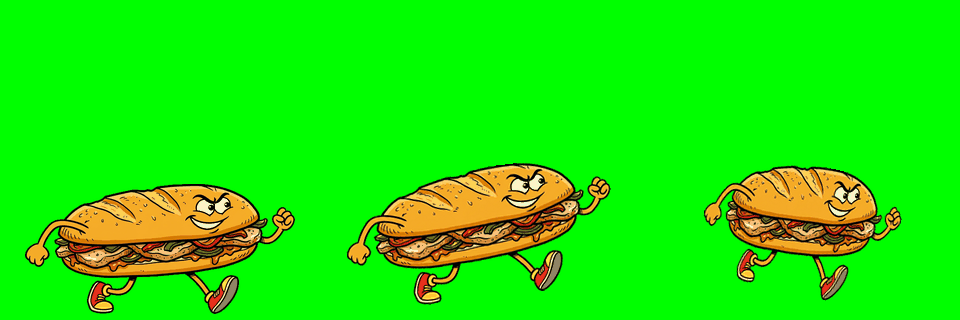
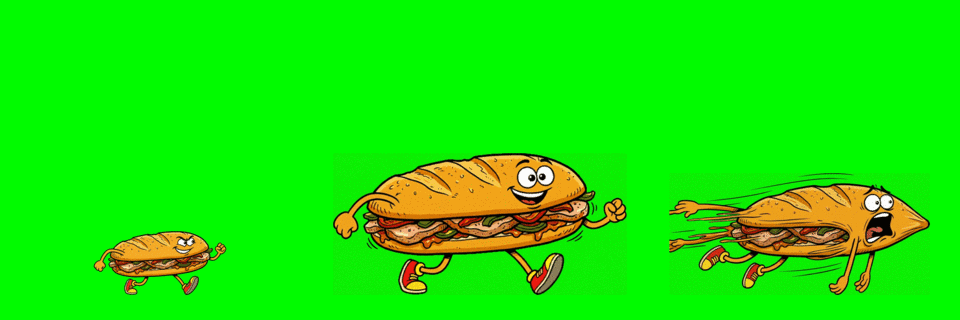
A3b · Poses originales de andar B y aspirado de los esmorzars 5-8

Changed region(s): [[0.3438, 0.4688, 0.6562, 0.9688], [0.6875, 0.5, 0.9688, 0.9375], [0.0, 0.5625, 0.3125, 1.0]]

diff --git a/src/sprite-list.js b/src/sprite-list.js
@@ -150,23 +150,23 @@ export const SPRITE_FILES = {
   'boss-lider-down': ['./assets/enemigos/boss-lider-down.png', 477, 260],
   'boss-lider-shout': ['./assets/enemigos/boss-lider-shout.png', 642, 350],
   'bocata-down': ['./assets/sprites/bocata-down.webp', 351, 120],
-  'bocata-stun': ['./assets/sprites/bocata-stun.webp', 305, 206],
-  'bocata-walkA': ['./assets/sprites/bocata-walkA.webp', 415, 200],
-  'bocata-walkB': ['./assets/sprites/bocata-walkB.webp', 406, 217],
+  'bocata-stun': ['./assets/sprites/bocata-stun.webp', 816, 350],
+  'bocata-walkA': ['./assets/sprites/bocata-walkA.webp', 412, 200],
+  'bocata-walkB': ['./assets/sprites/bocata-walkB.webp', 916, 444],
   'cacahuete-down': ['./assets/sprites/cacahuete-down.webp', 382, 120],
-  'cacahuete-stun': ['./assets/sprites/cacahuete-stun.webp', 138, 184],
-  'cacahuete-walkA': ['./assets/sprites/cacahuete-walkA.webp', 164, 200],
-  'cacahuete-walkB': ['./assets/sprites/cacahuete-walkB.webp', 161, 208],
+  'cacahuete-stun': ['./assets/sprites/cacahuete-stun.webp', 738, 408],
+  'cacahuete-walkA': ['./assets/sprites/cacahuete-walkA.webp', 163, 200],
+  'cacahuete-walkB': ['./assets/sprites/cacahuete-walkB.webp', 369, 442],
   'chupito-down': ['./assets/sprites/chupito-down.webp', 281, 120],
-  'chupito-stun': ['./assets/sprites/chupito-stun.webp', 141, 202],
-  'chupito-walkA': ['./assets/sprites/chupito-walkA.webp', 187, 200],
-  'chupito-walkB': ['./assets/sprites/chupito-walkB.webp', 180, 199],
+  'chupito-stun': ['./assets/sprites/chupito-stun.webp', 785, 368],
+  'chupito-walkA': ['./assets/sprites/chupito-walkA.webp', 188, 200],
+  'chupito-walkB': ['./assets/sprites/chupito-walkB.webp', 394, 444],
   'paella-down': ['./assets/sprites/paella-down.webp', 394, 160],
   'paella-idle': ['./assets/sprites/paella-idle.webp', 311, 300],
   'paella-walkA': ['./assets/sprites/paella-walkA.webp', 311, 300],
   'paella-walkB': ['./assets/sprites/paella-walkB.webp', 311, 300],
   'tostada-down': ['./assets/sprites/tostada-down.webp', 420, 120],
-  'tostada-stun': ['./assets/sprites/tostada-stun.webp', 148, 204],
-  'tostada-walkA': ['./assets/sprites/tostada-walkA.webp', 193, 200],
-  'tostada-walkB': ['./assets/sprites/tostada-walkB.webp', 186, 204],
+  'tostada-stun': ['./assets/sprites/tostada-stun.webp', 683, 421],
+  'tostada-walkA': ['./assets/sprites/tostada-walkA.webp', 192, 200],
+  'tostada-walkB': ['./assets/sprites/tostada-walkB.webp', 423, 436],
 };

diff --git a/assets/PROMPTS.md b/assets/PROMPTS.md
@@ -270,3 +270,16 @@ Personaje **inventado** según el comentario de #57: dueño de bar de mediana ed
 - assets/enemigos/jefe-bar-enfadado.png | Enfadado fase 2: cara roja, vapor por las orejas y una paella entera alzada sobre la cabeza a dos manos, cucharón en el bolsillo del delantal. | generate_image (referencia: reposo) + Pillow
 - assets/enemigos/jefe-bar-victoria.png | Victoria: ríe orgulloso con una mano en la cadera y el cucharón en alto como un trofeo. | generate_image (referencia: reposo) + Pillow
 - assets/enemigos/jefe-bar-retrato.png | Retrato para la pantalla del jefe: busto tres cuartos a la derecha, barbilla alta y cucharón al hombro. | generate_image (referencia: reposo) + Pillow
+## A3b · Poses originales de andar B y aspirado de los esmorzars 5-8 (2026-11-02)
+
+Antes el andar B y el aspirado de estos cuatro enemigos eran un aplastado/giro del andar A. Ahora son poses dibujadas de verdad, con el PNG de andar A de cada uno como **imagen de referencia** para conservar el diseño. Las hojas `-poses.png` se rehicieron 3×1 (andar A · andar B · aspirado) a 960×320 con escala común por personaje y fondo verde #00FF00 uniforme.
+
+- assets/enemigos/bocata-lomo-andar-b.png | Bocata de lomo inventado (baguette con lomo a la plancha y pimiento rojo, ojos de tebeo), paso alternado del ciclo de andar mirando a la derecha, brazos en contrapeso; Bruguera, trazo grueso, colores planos, fondo #00FF00. | Arena generate_image (referencia: andar-a) + ImageMagick
+- assets/enemigos/bocata-lomo-aspirado.png | El mismo bocata de lomo atrapado por una boca gigante a la derecha: cuerpo estirado en lágrima, ojos desorbitados, boca abierta gritando, patas arrastradas y líneas de movimiento; humor físico, fondo #00FF00. | Arena generate_image (referencia: andar-a) + ImageMagick
+- assets/enemigos/cacahuete-saltarin-andar-b.png | Cacahuete saltarín inventado (cáscara rugosa, guantes y zapatillas rojas) en paso alternado del ciclo de andar mirando a la derecha; Bruguera, fondo #00FF00. | Arena generate_image (referencia: andar-a) + ImageMagick
+- assets/enemigos/cacahuete-saltarin-aspirado.png | El mismo cacahuete aspirado hacia la derecha: cáscara estirada, guantes ondeando, zapatillas en el aire, ojos enormes de pánico; fondo #00FF00. | Arena generate_image (referencia: andar-a) + ImageMagick
+- assets/enemigos/tostada-tomate-andar-b.png | Tostada con tomate inventada (pan tostado, tomate triturado y aceite) en paso alternado del ciclo de andar mirando a la derecha; Bruguera, fondo #00FF00. | Arena generate_image (referencia: andar-a) + ImageMagick
+- assets/enemigos/tostada-tomate-aspirado.png | La misma tostada aspirada hacia la derecha: pan estirado en lágrima, tomate salpicando, ojos de pánico y patas arrastradas; fondo #00FF00. | Arena generate_image (referencia: andar-a) + ImageMagick
+- assets/enemigos/chupito-andar-b.png | Chupito inventado (vaso de licor oscuro con ojos y patitas) en paso alternado del ciclo de andar mirando a la derecha, el líquido ondulando; Bruguera, fondo #00FF00. | Arena generate_image (referencia: andar-a) + ImageMagick
+- assets/enemigos/chupito-aspirado.png | El mismo chupito aspirado hacia la derecha: vaso estirado, licor salpicando en gotas, ojos de pánico; fondo #00FF00. | Arena generate_image (referencia: andar-a) + ImageMagick
+- assets/enemigos/{bocata-lomo,cacahuete-saltarin,tostada-tomate,chupito}-poses.png | Hojas 3×1 derivadas con las tres poses originales en este orden (andar A · andar B · aspirado), escala común por personaje, 960×320, fondo #00FF00 uniforme. Montadas con Python/Pillow + ImageMagick a partir de los PNG anteriores, sin generar contenido nuevo. | Pillow + ImageMagick

diff --git a/PROGRESS.md b/PROGRESS.md
@@ -50,3 +50,4 @@
 - A5 (arte, sesión 2026-11-02): Jefa de Sala del Bar Pols con 10 poses (reposo, andar A/B, bandeja, grito, herida, derrotada, enfadada, victoria, retrato) en `assets/enemigos/jefa-sala-*.png` + hoja derivada; sprites `boss-jefa-*` en `assets/sprites/`.
 - A3 (arte, 2026-11-02): cuatro esmorzars y paella con 10 imágenes, sprites preparados; andar B y aspirado son transformaciones provisionales, pendientes de poses originales.
 - A2 (integración, 2026-11-02): rescate del arte del PR #64 congelado (4 esmorzars + jefe bocata) reaplicado sobre main con conflictos resueltos, y nuevo PNG del jefe bocata **derrotado** (antes era un vaso de café provisional); `dm-*` en `src/sprite-list.js`.
+- A3b (arte, 2026-11-02): poses originales de andar B y aspirado para los cuatro esmorzars 5-8 (sustituyen a los aplastados provisionales), hojas 3×1 rehechas a 960×320 y sprites walkA/walkB/stun regenerados.
